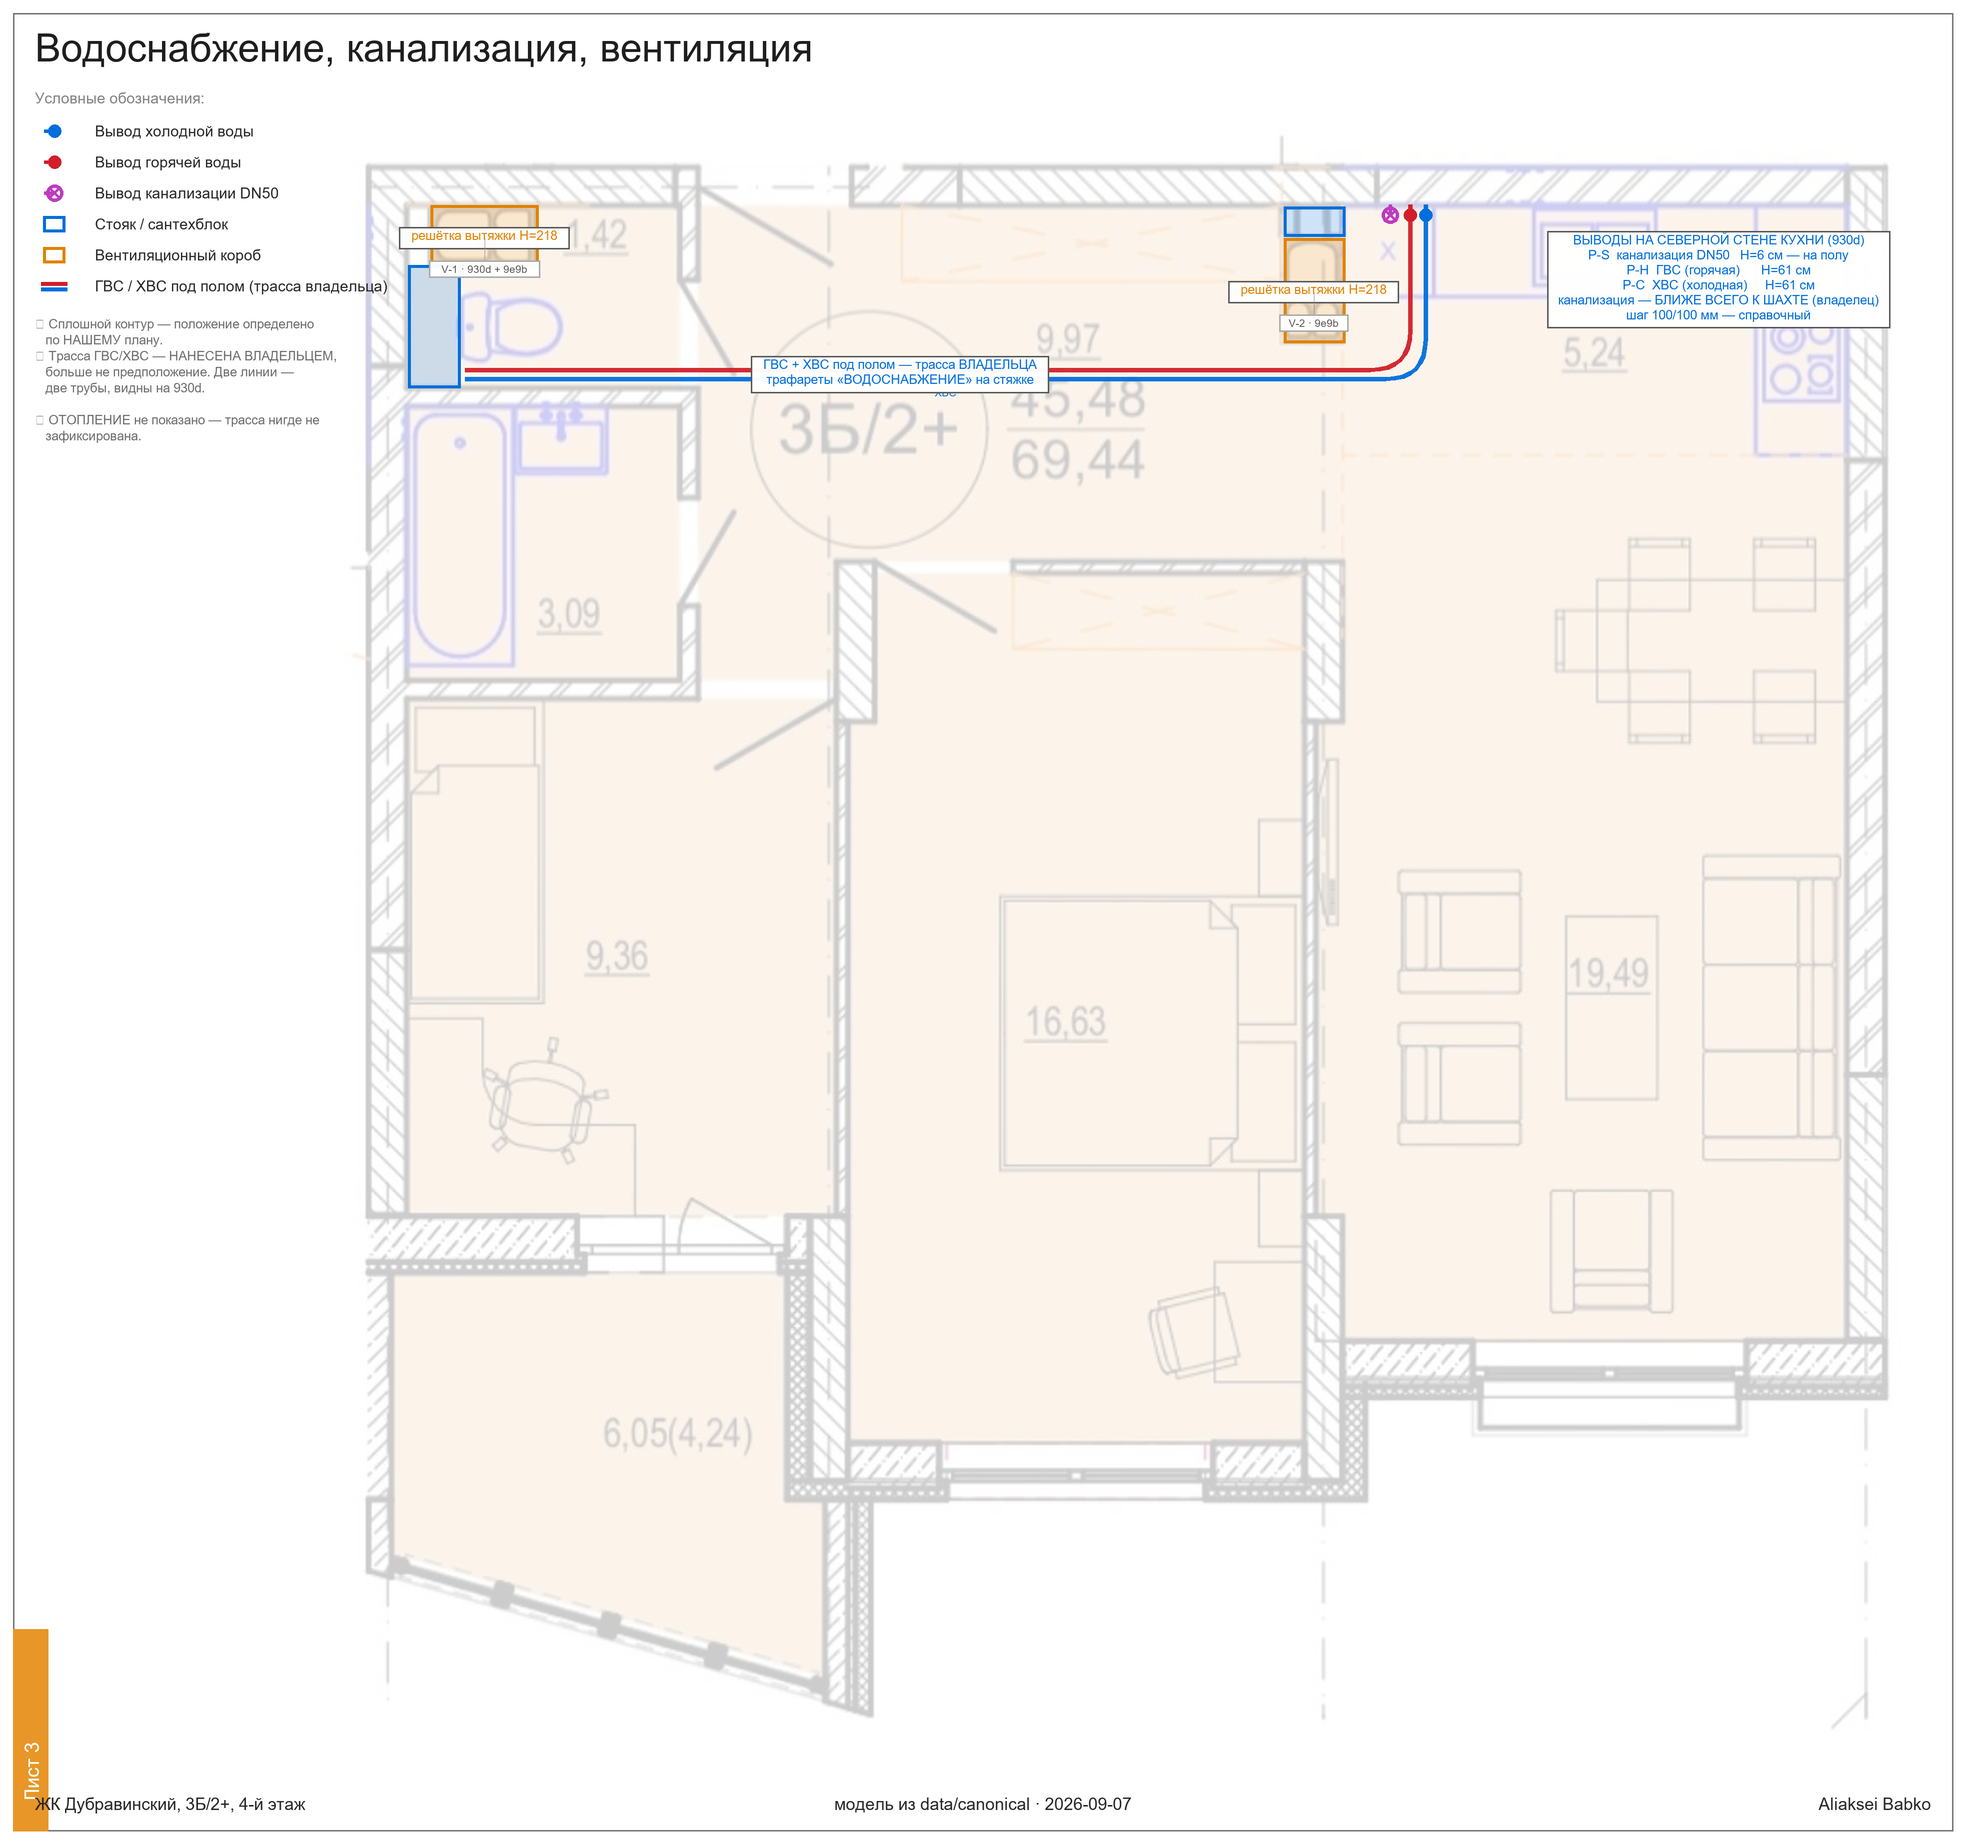
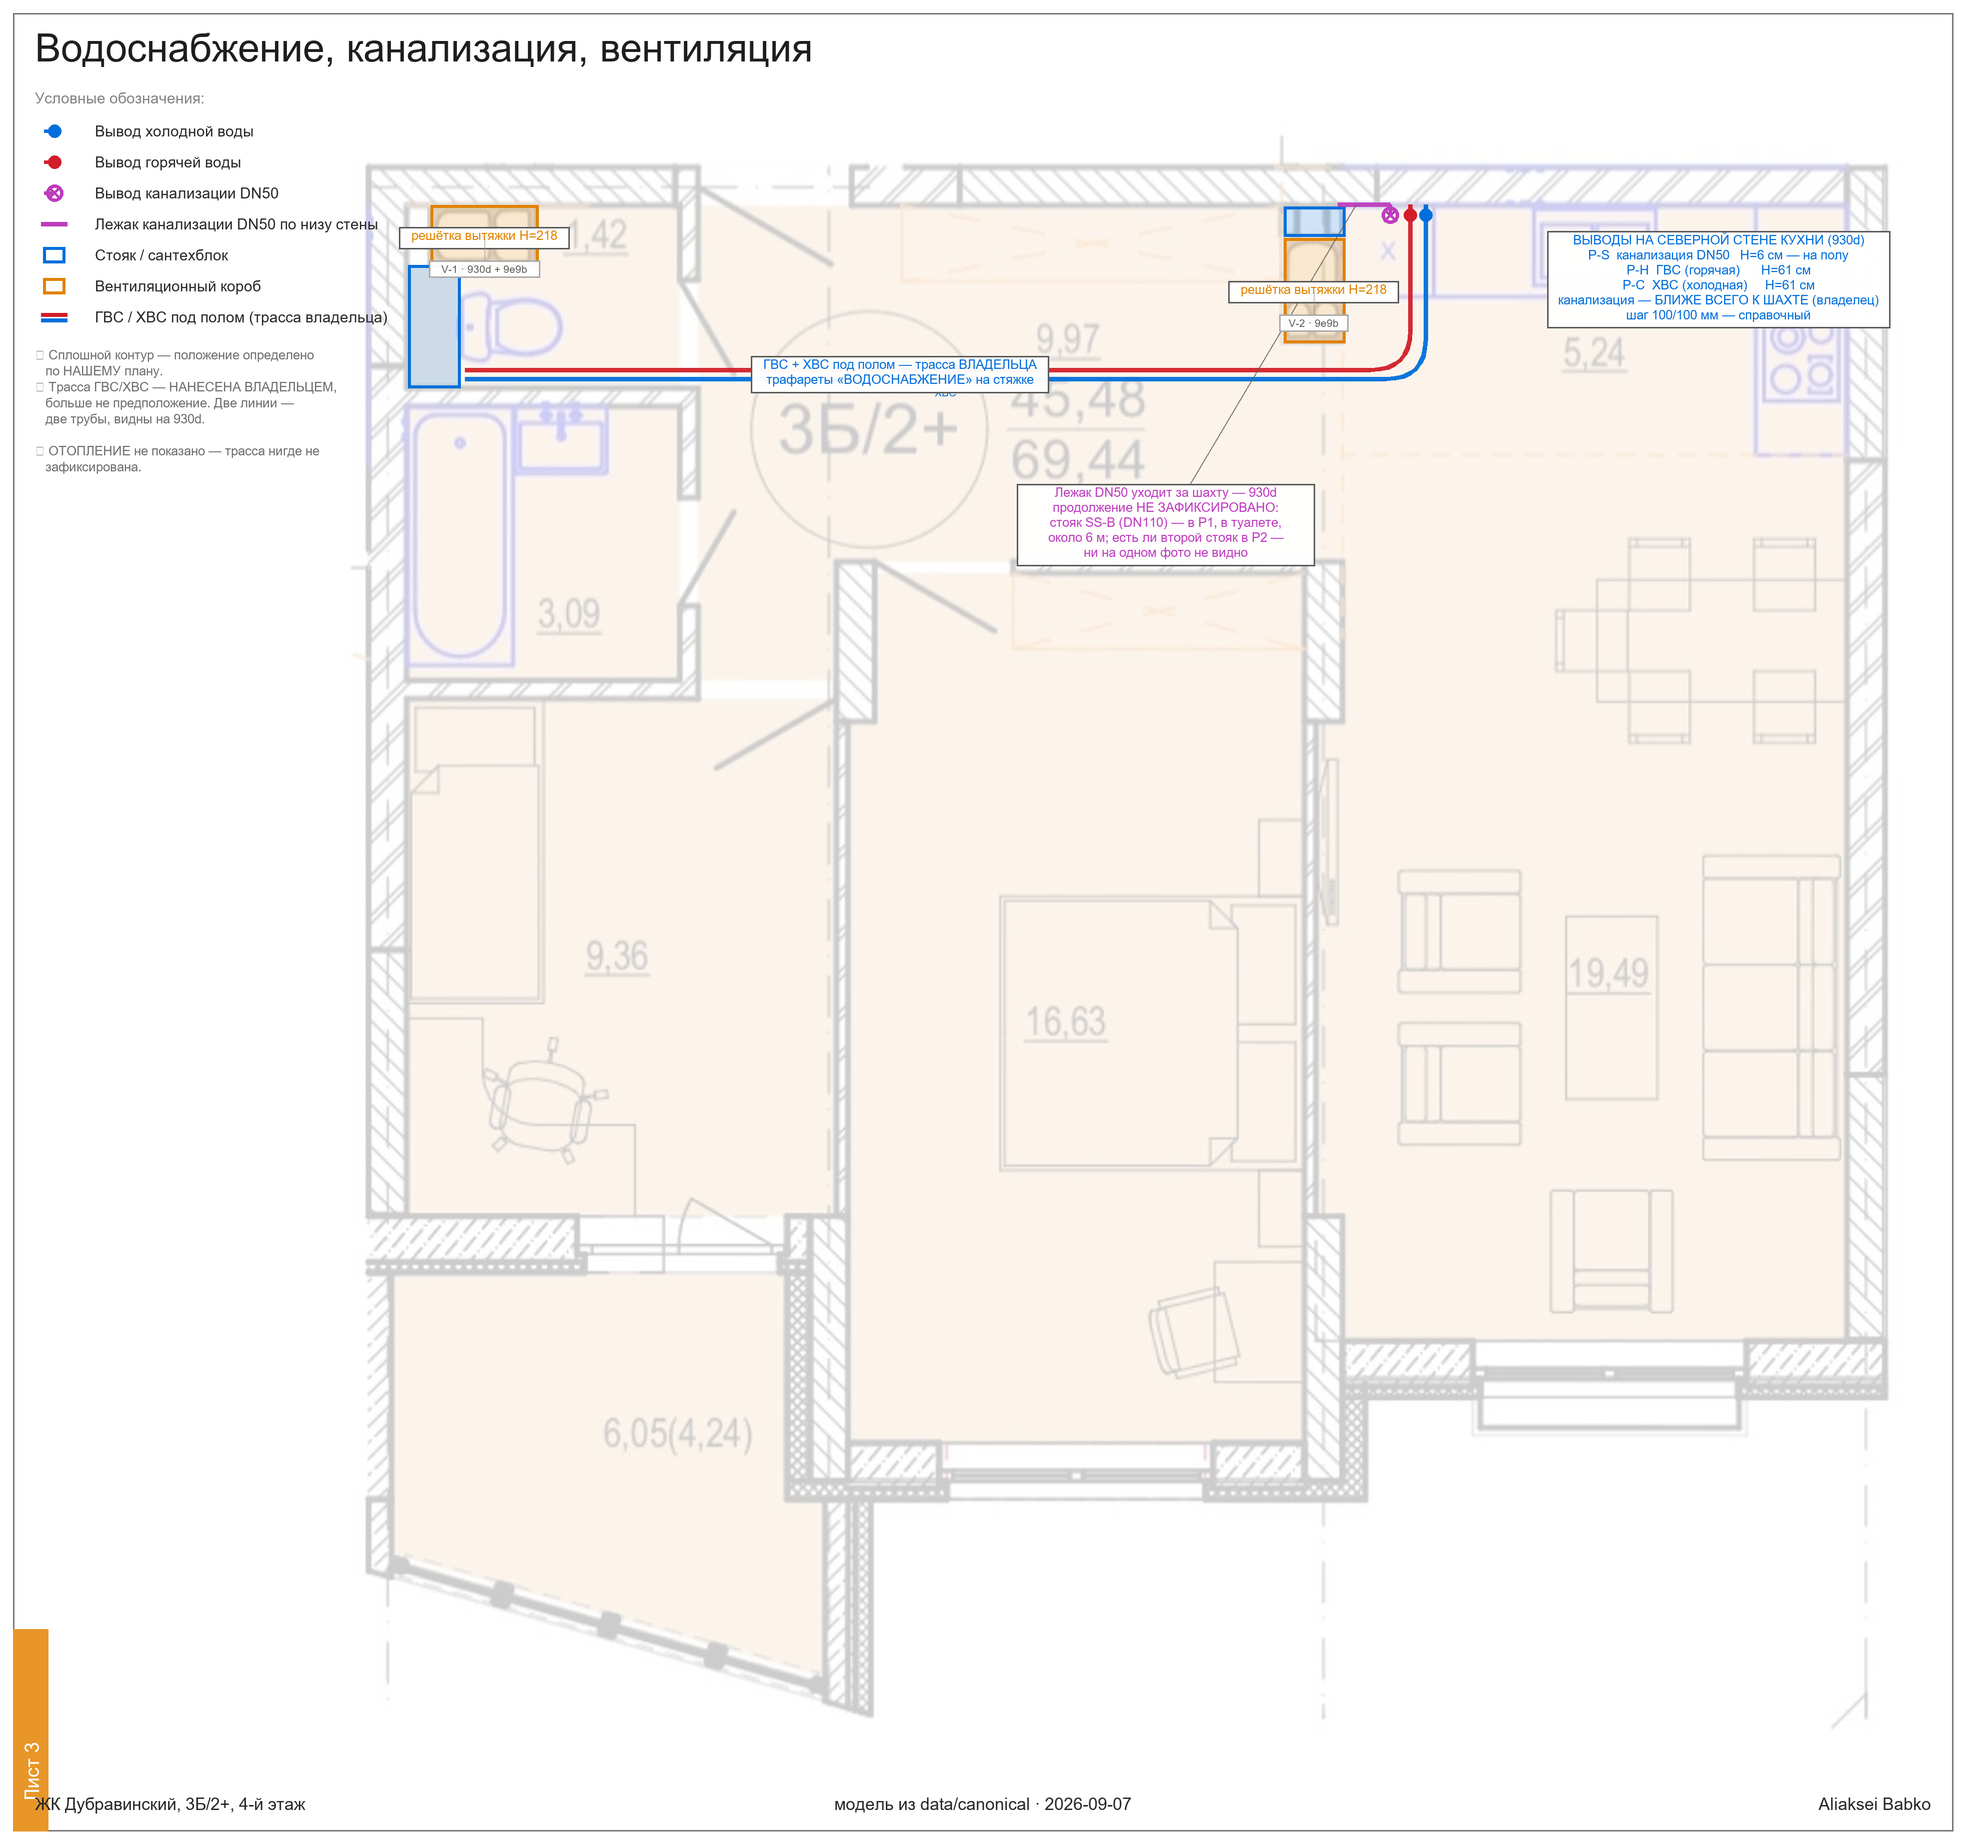
Draw the sewer run, not just its socket
Owner: "you missed the sewer pipe which connects the outlet - it goes behind
the ventilation shaft and the wall."

It was in my own note already. service_outlets.csv, SS-K, written the same
day: "a grey PVC pipe running horizontally along the wall base with a socket
facing into the room, continuing right into a chase." I recorded the run and
then drew only its endpoint. A note that never reaches the drawing does not
exist for anyone reading the drawing.

Now a magenta lezhak from the socket west along G3's base, disappearing
behind the V2/P2 block, in the clearance check with connects=('P2',) - exempt
from the block it runs into, still tested against V2, which it clears by
215 mm.

It ends at the block deliberately. The only stack in the record is SS-B
(DN110) in P1 in the WC, ~6 m away, and no photo shows how this DN50 reaches
it or whether P2 holds a second riser. Drawing that branch would be inventing
an element - the rule the Z1/Z2 voids broke. The sheet carries the gap as a
callout, and it is a real question: it decides whether a dishwasher or sink
position away from that wall is cheap or expensive.

callout() gained a `seek` offset - leader stays on the subject, box hunts for
space elsewhere. Without it spot() can only land on the neighbours of the
thing the note is about, which is how this note first covered the two shafts
it describes. Same defect class as htag's `push` and the missing reserve().

Changed region(s): [[0.0, 0.1236, 0.1862, 0.2473], [0.5275, 0.2473, 0.6826, 0.3091]]

diff --git a/tools/layout/sheets/make_services_sheets.py b/tools/layout/sheets/make_services_sheets.py
@@ -217,6 +217,8 @@ s3.f_src = __import__('sheet_lib').F(21)
 s3.legend(lambda x, y, c: s3.sym_pipe(x - 20, y, 1, 0, c, 'water'), u'Вывод холодной воды', B)
 s3.legend(lambda x, y, c: s3.sym_pipe(x - 20, y, 1, 0, c, 'water'), u'Вывод горячей воды', R)
 s3.legend(lambda x, y, c: s3.sym_pipe(x - 20, y, 1, 0, c, 'sewer'), u'Вывод канализации DN50', MG)
+s3.legend(lambda x, y, c: s3.d.line([(x - 26, y), (x + 26, y)], fill=MG, width=9),
+          u'Лежак канализации DN50 по низу стены', MG)
 s3.legend(lambda x, y, c: s3.d.rectangle([x - 22, y - 16, x + 22, y + 16], outline=c, width=6),
           u'Стояк / сантехблок', B)
 s3.legend(lambda x, y, c: s3.d.rectangle([x - 22, y - 16, x + 22, y + 16], outline=c, width=6),
@@ -256,8 +258,23 @@ for bid, (x0, y0, x1, y1), col in (('V1', (67, 70, 139, 111), OR), ('V2', (636, 
 #
 # So these are two independent routes, each ending on its own take-off, not one
 # line drawn twice.
+# The SEWER RUN, added 2026-09-07 on the owner: I had drawn the DN50 socket
+# and never drawn the pipe it connects to. 930d shows it plainly — a grey PVC
+# pipe running HORIZONTALLY along the wall base from the socket and continuing
+# into a chase behind the shaft. So it is drawn as observed: west along G3’s
+# base from the socket, disappearing behind the V2/P2 block.
+#
+# It stops there ON PURPOSE. The only sewer stack in the record is SS-B, DN110,
+# in P1 in the туалет — about 6 m away — and no photo shows how this DN50
+# reaches it, or whether P2 holds a second riser instead. The photo shows the
+# pipe entering the chase and nothing beyond, so that is where the line ends
+# and the callout says so. Drawing a 6 m branch across the flat would be
+# inventing an element, which is the rule the З1/З2 voids broke.
+SEWER = [(707.22765, 69.9953), (672, 69.9953)]
+
 ROUTES = [(u'ГВС', R, [(90, 180), (720.49225, 180), (720.49225, 69.9953)]),
-          (u'ХВС', B, [(90, 186), (730.70995, 186), (730.70995, 69.9953)])]
+          (u'ХВС', B, [(90, 186), (730.70995, 186), (730.70995, 69.9953)]),
+          (u'DN50', MG, SEWER)]
 
 # no routed segment may cross a shaft or a plumbing block. The junction check
 # taught this — a check that cannot fail is not a check.
@@ -266,16 +283,25 @@ BLOCKS = {'V1': (67, 70, 139, 111), 'V2': (636, 92, 677, 162),
 for lbl, col, route in ROUTES:
     # P1 is the riser each route takes off FROM, so it is excluded by name,
     # not by loosening the tolerance until the check stops complaining.
-    bad = route_block_conflicts(route, BLOCKS, clear_mm=60.0, connects=('P1',))
+    # each route is exempted only from the block it TAKES OFF FROM or RUNS
+    # INTO - by name, not by loosening the tolerance until the check goes quiet.
+    conn = ('P2',) if col is MG else ('P1',)
+    bad = route_block_conflicts(route, BLOCKS, clear_mm=60.0, connects=conn)
     if bad:
         raise SystemExit(u'%s route crosses a service block: %s' % (lbl, u'; '.join(bad)))
     s3.polyline_rounded(route, col, width=9, offset=0.0, r_mm=260.0)
-    m = s3.P(((route[0][0] + route[1][0]) / 2.0, route[0][1] + (-5 if col is R else 9)))
-    s3.d.text(m, lbl, fill=col, font=s3.f_src, anchor='mm')
+    if col is not MG:   # the sewer run is short; its label would sit on the block
+        m = s3.P(((route[0][0] + route[1][0]) / 2.0, route[0][1] + (-5 if col is R else 9)))
+        s3.d.text(m, lbl, fill=col, font=s3.f_src, anchor='mm')
 print(u'  route/block clearance: %d routes, all clear of %d blocks, 1 turn each'
       % (len(ROUTES), len(BLOCKS)))
 s3.callout(*(list(s3.P((380, 183))) + [[u'ГВС + ХВС под полом — трасса ВЛАДЕЛЬЦА',
                                         u'трафареты «ВОДОСНАБЖЕНИЕ» на стяжке'], B]))
+s3.callout(*(list(s3.P((684, 70))) + [[u'Лежак DN50 уходит за шахту — 930d',
+                                        u'продолжение НЕ ЗАФИКСИРОВАНО:',
+                                        u'стояк SS-B (DN110) — в P1, в туалете,',
+                                        u'около 6 м; есть ли второй стояк в P2 —',
+                                        u'ни на одном фото не видно'], MG, (-380, 640)]))
 
 # ORDER CORRECTED 2026-09-07 by the owner: in 930d the sewer socket is CLOSER
 # TO THE VENTILATION SHAFT than either water outlet. I had it as the eastmost

diff --git a/tools/layout/sheets/sheet_lib.py b/tools/layout/sheets/sheet_lib.py
@@ -395,10 +395,15 @@ class Sheet(object):
                          fill=(255, 255, 255, 245), outline=col, width=3)
         self.d.text((tx, ty), txt, fill=col, font=f_tag, anchor='mm')
 
-    def callout(self, x, y, lines, col=(40, 40, 40)):
+    def callout(self, x, y, lines, col=(40, 40, 40), seek=(0, 0)):
         w = max(len(t) for t in lines) * 15 + 26
         h = 14 + 30 * len(lines)
-        tx, ty = self.spot(x, y, w, h)
+        # the LEADER stays on (x, y) - the thing being annotated - while `seek`
+        # moves where the box hunts for space. Without it spot() spirals out
+        # from the anchor and can only land on the neighbours of the very thing
+        # the note is about, which is how the sewer note ended up covering the
+        # two shafts it describes.
+        tx, ty = self.spot(x + seek[0], y + seek[1], w, h)
         self.d.line([(x, y), (tx, ty)], fill=(90, 90, 90, 190), width=2)
         self.d.rectangle([tx - w / 2, ty - h / 2, tx + w / 2, ty + h / 2],
                          fill=(255, 255, 255, 248), outline=(90, 90, 90), width=3)
